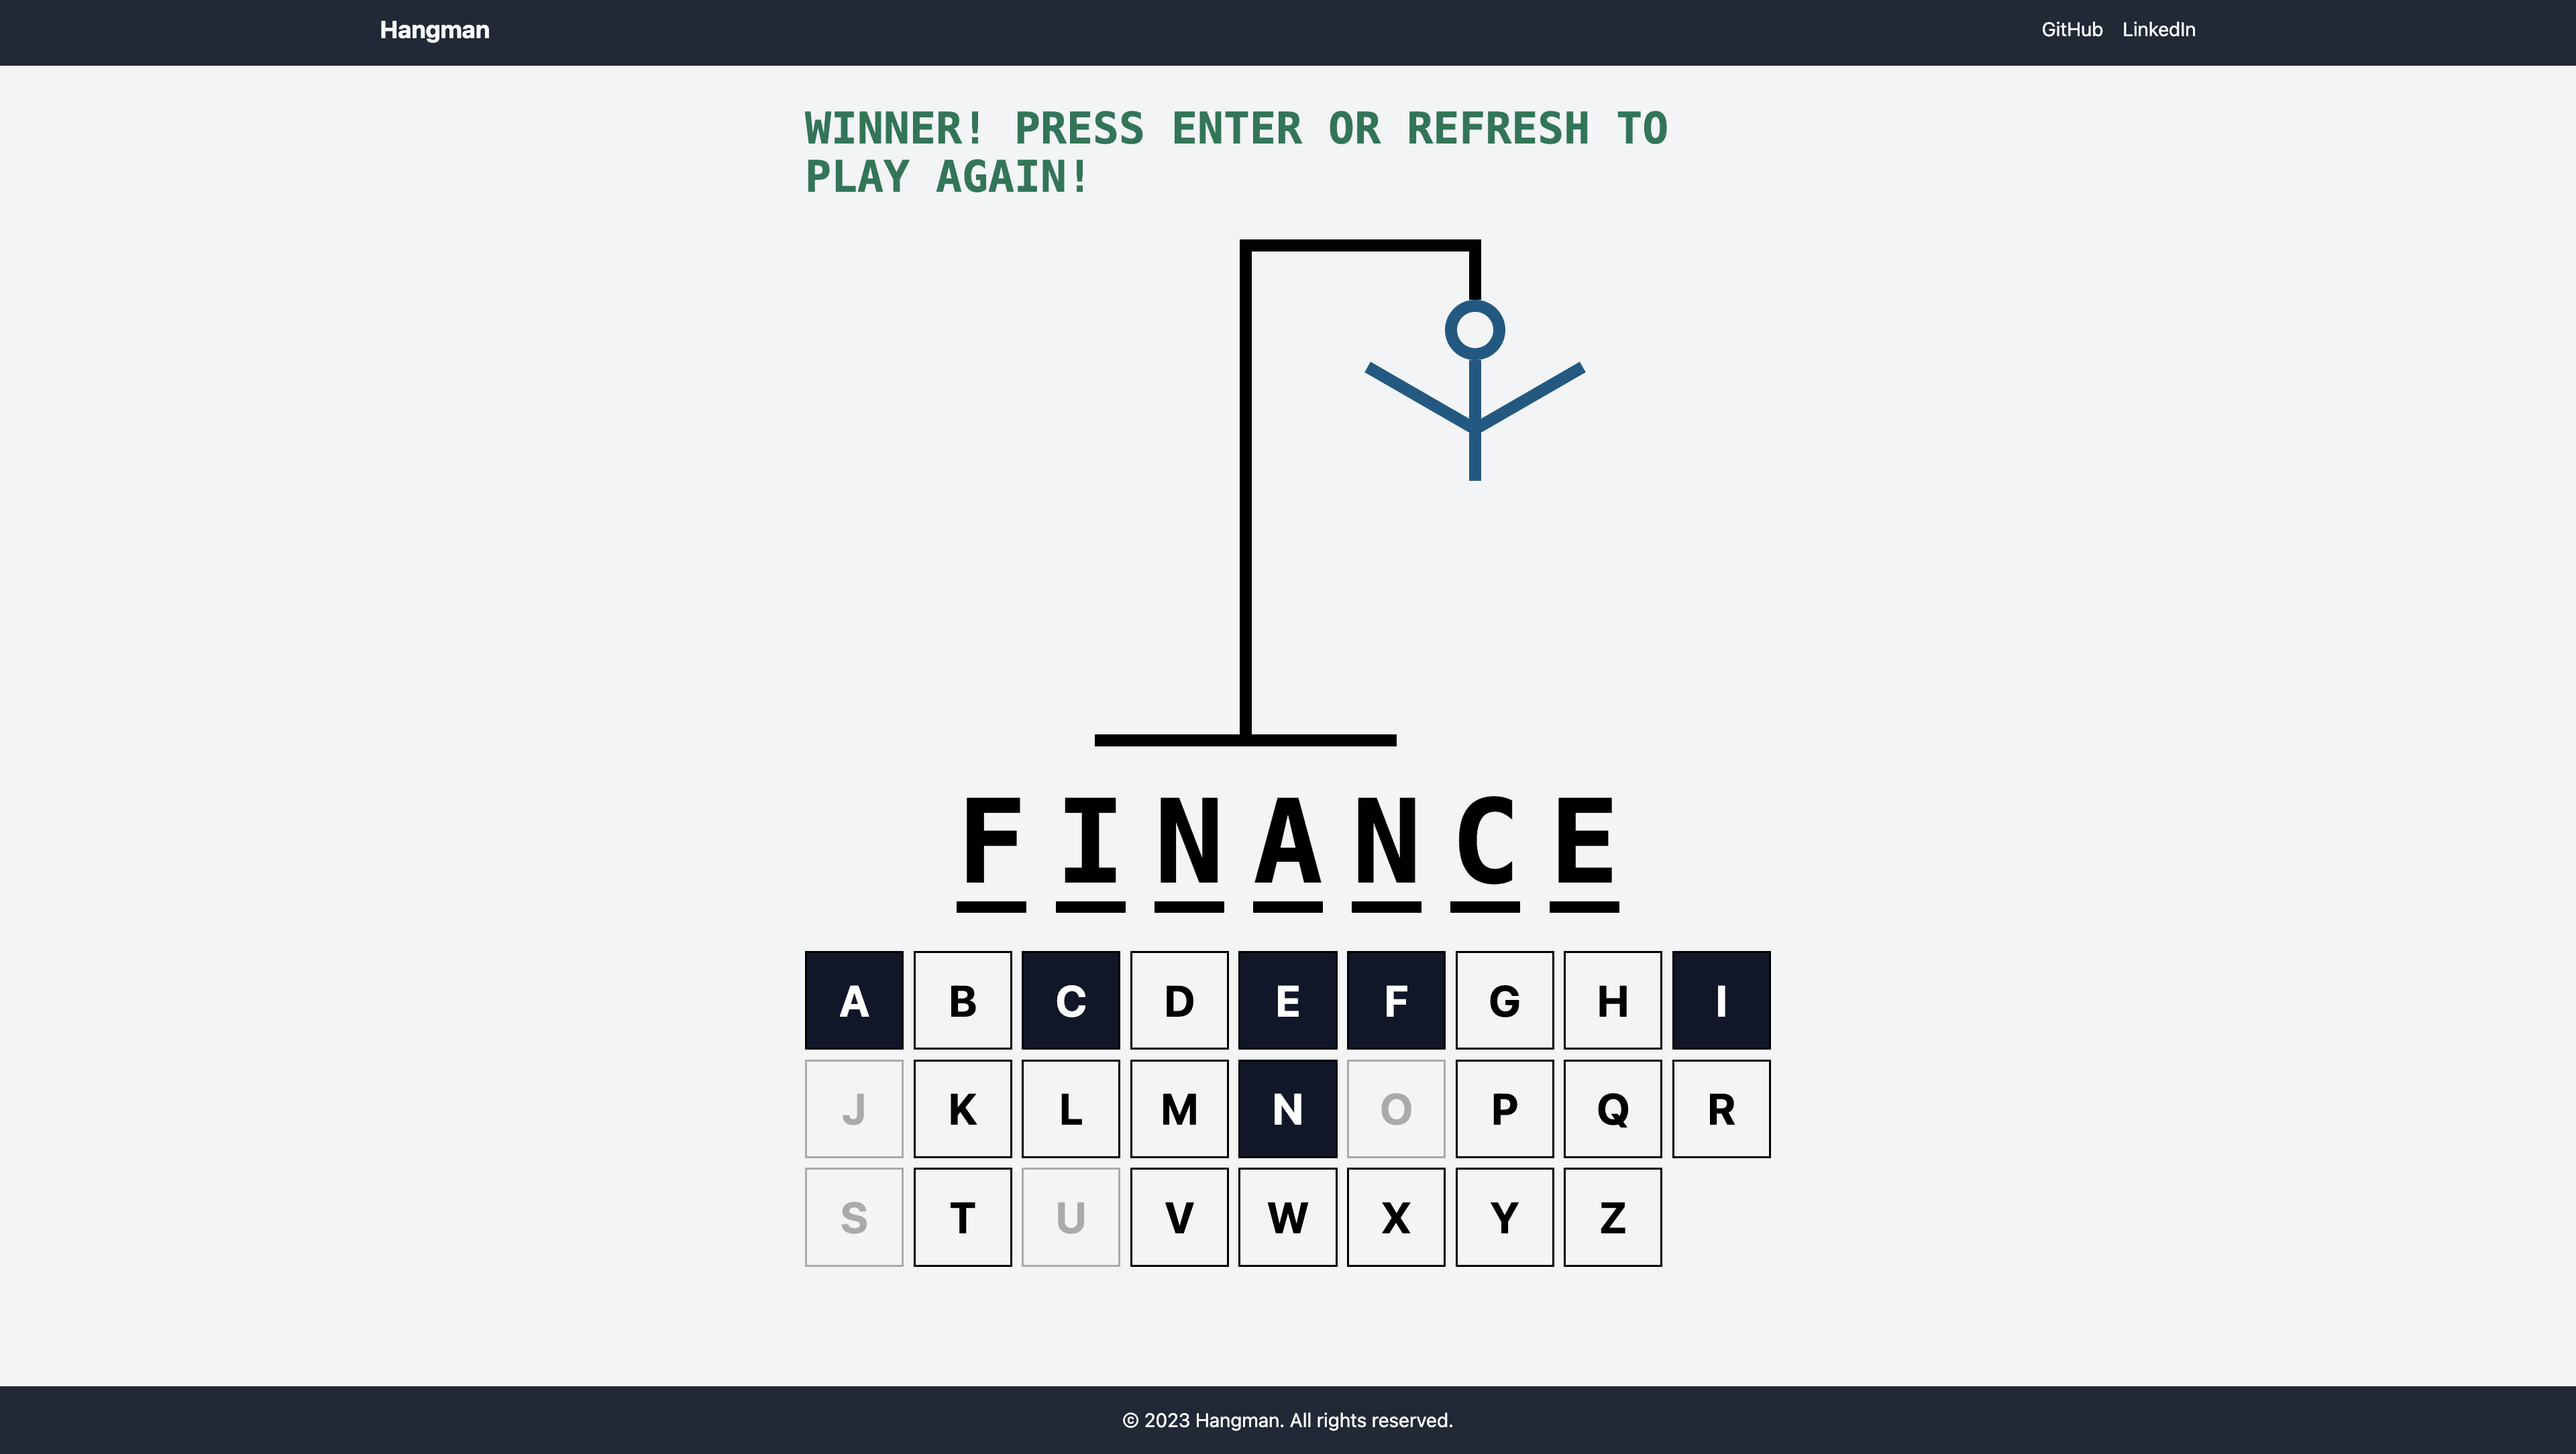
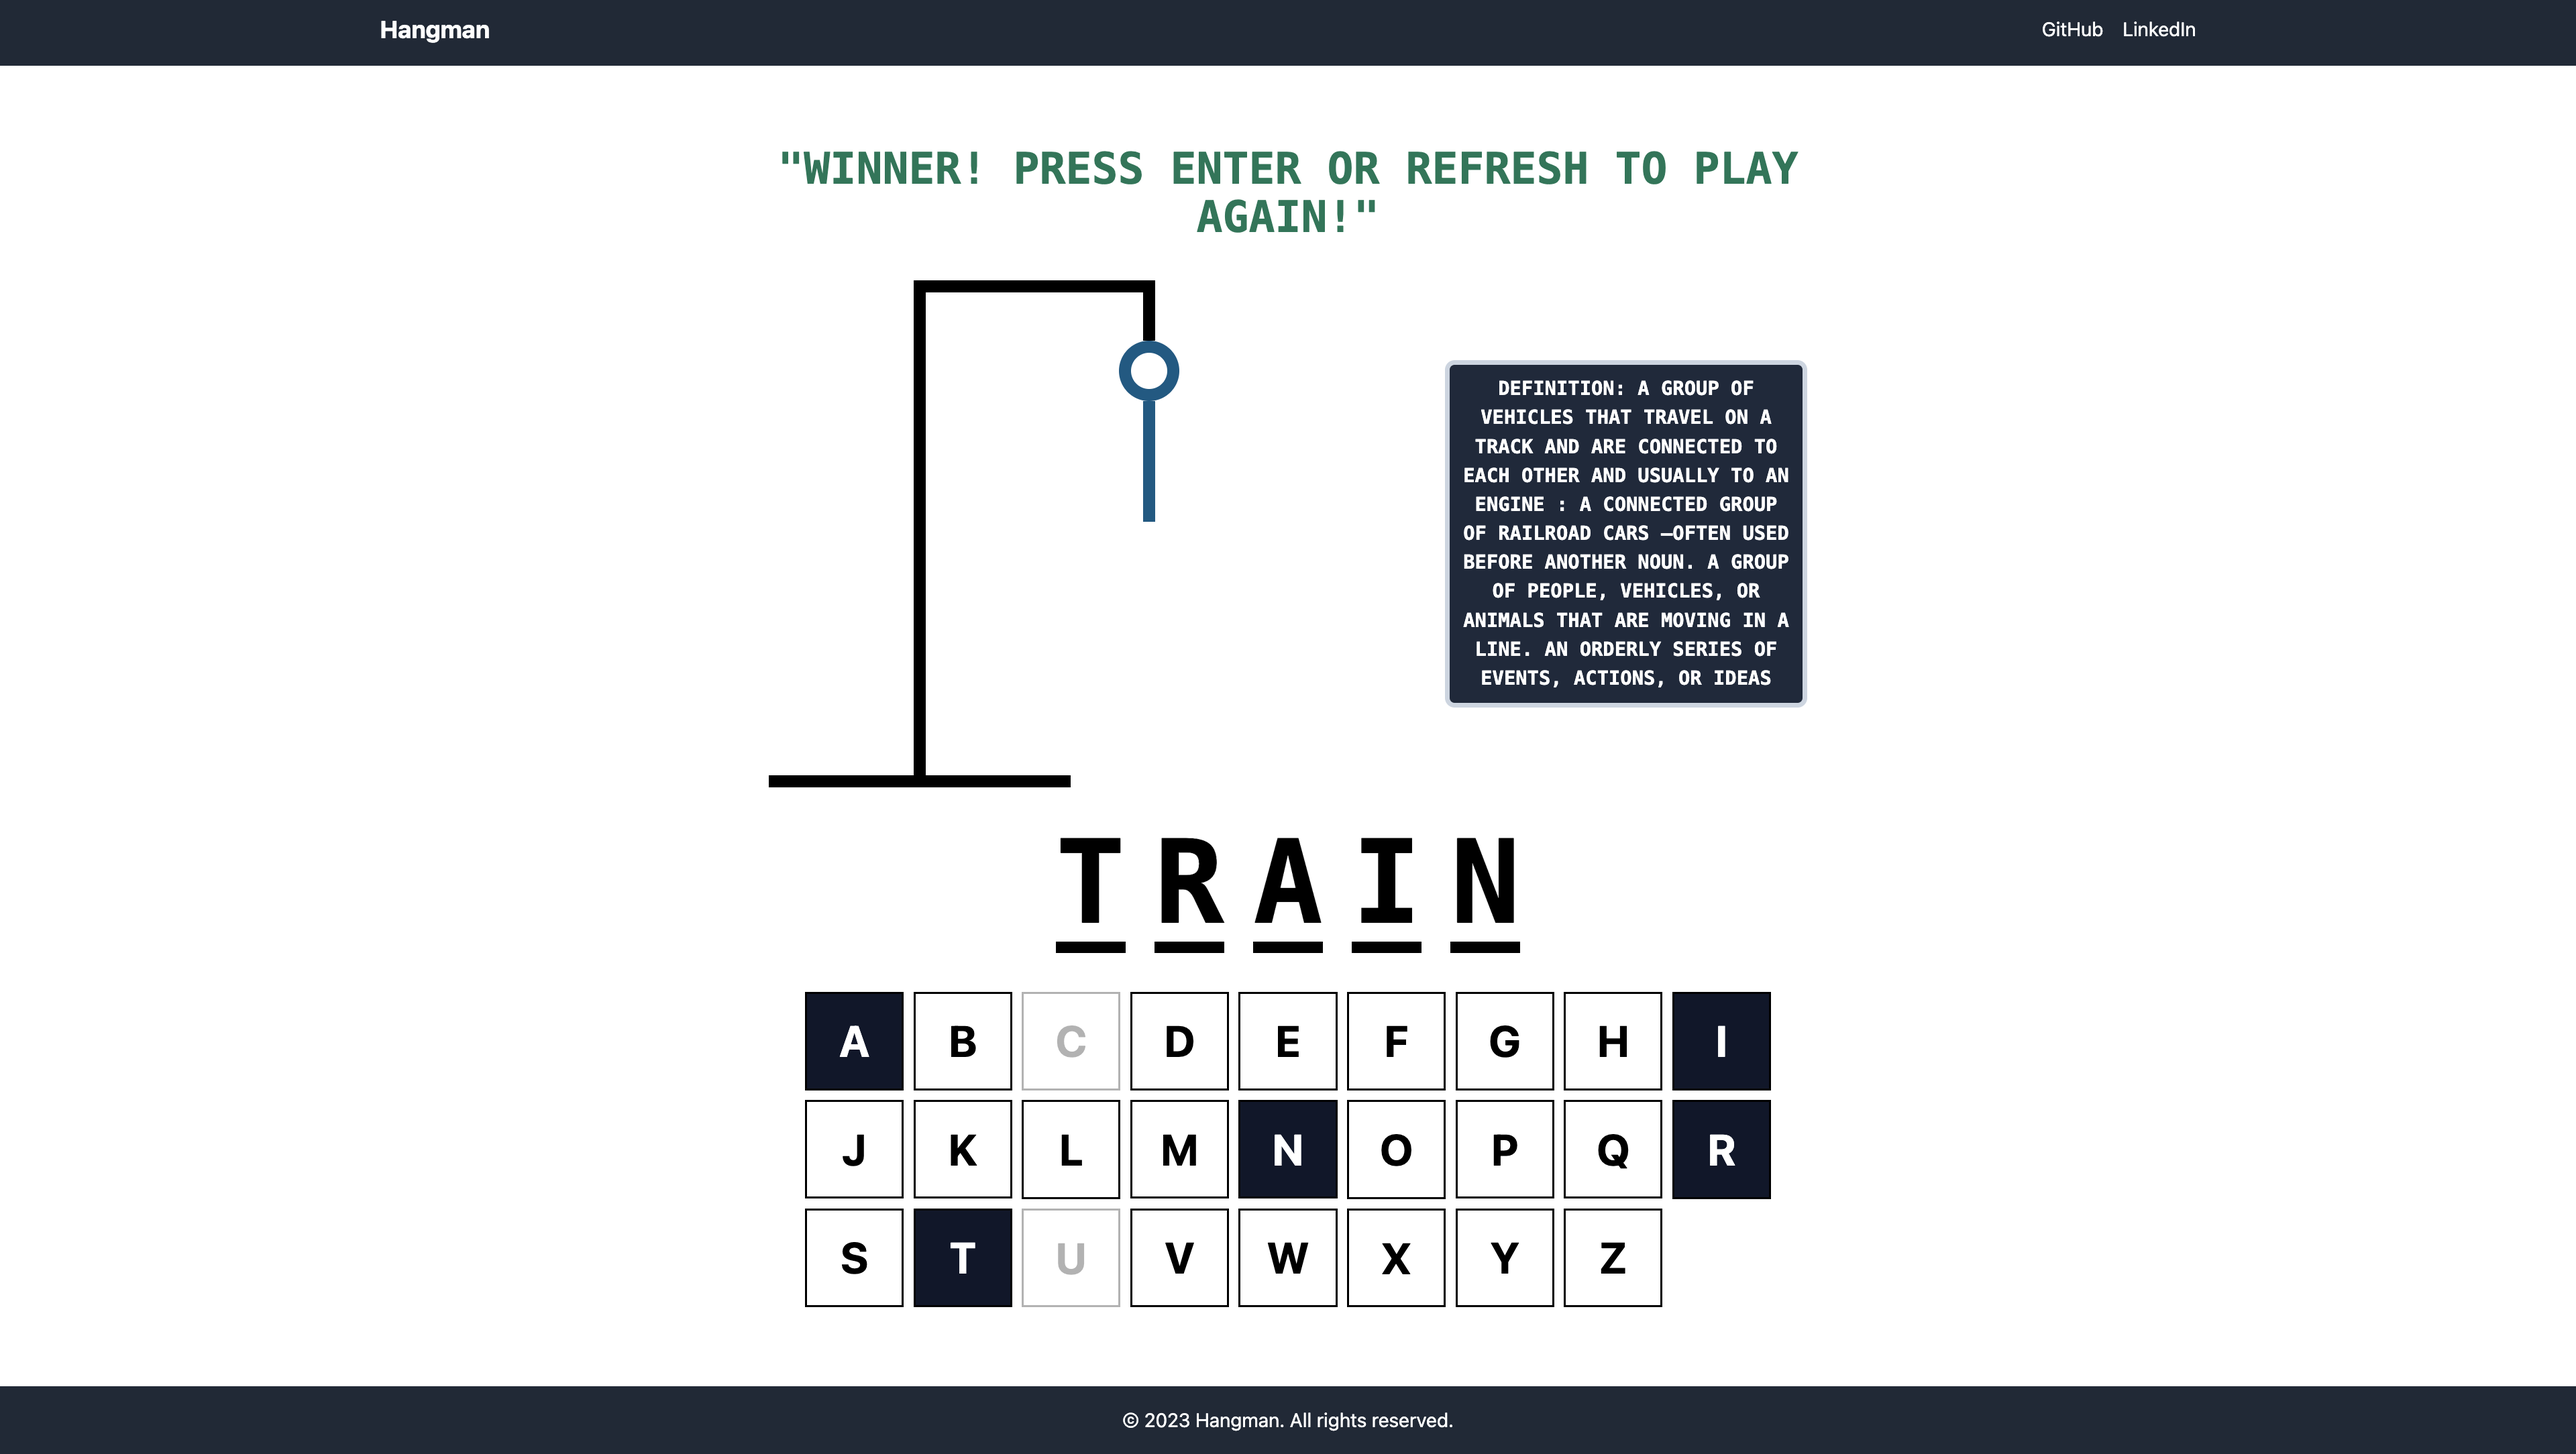
added merriam-webster api for definitions

Changed region(s): [[0.2812, 0.0618, 0.7188, 0.8962]]

diff --git a/src/App.tsx b/src/App.tsx
@@ -4,6 +4,9 @@ import "./index.css";
 import HangmanDrawing from "./HangmanDrawing";
 import HangmanWord from "./HangmanWord";
 import Keyboard from "./Keyboard";
+import Header from "./Header";
+
+const DEVELOPER_KEY = "YOUR_DEVELOPER_KEY";
 
 function getWord() {
   return wordList[Math.floor(Math.random() * wordList.length)];
@@ -12,6 +15,9 @@ function getWord() {
 function App() {
   const [wordToGuess, setWordToGuess] = useState(getWord);
   const [guessedLetters, setGuessedLetters] = useState<string[]>([]);
+  const [definition, setDefinition] = useState("");
+  const [showHint, setShowHint] = useState(false);
+
   const incorrectLetters = guessedLetters.filter(
     (letter) => !wordToGuess.includes(letter)
   );
@@ -55,6 +61,7 @@ function App() {
       e.preventDefault;
       setGuessedLetters([]);
       setWordToGuess(getWord());
+      setShowHint(false);
     };
 
     document.addEventListener("keypress", handler);
@@ -64,74 +71,68 @@ function App() {
     };
   }, []);
 
+  useEffect(() => {
+    fetch(
+      `https://dictionaryapi.com/api/v3/references/learners/json/${wordToGuess}?key=${DEVELOPER_KEY}`
+    )
+      .then((response) => response.json())
+      .then((data) => {
+        setDefinition(data[0].shortdef.join(". "));
+      })
+      .catch((err) => {
+        console.log(err.message);
+      });
+  }, [wordToGuess]);
+
   return (
     <div className="flex flex-col h-screen">
-      <nav className="bg-gray-800 text-white py-4">
-        <div className="container mx-auto px-4 flex justify-between items-center">
-          <a href="#" className="text-xl font-bold">
-            Hangman
-          </a>
-          <button className="md:hidden focus:outline-none">
-            <svg viewBox="0 0 20 20" fill="currentColor" className="h-6 w-6">
-              <path
-                fill-rule="evenodd"
-                d="M3 4a1 1 0 011-1h12a1 1 0 110 2H4a1 1 0 01-1-1zM3 9a1 1 0 011-1h12a1 1 0 110 2H4a1 1 0 01-1-1zM9 14a1 1 0 110-2h8a1 1 0 110 2h-8z"
-                clip-rule="evenodd"
-              />
-            </svg>
-          </button>
-          <div className="hidden md:block">
-            <ul className="flex space-x-4">
-              <li>
-                <a
-                  href="https://github.com/paradimes"
-                  className="hover:text-gray-200"
-                >
-                  GitHub
-                </a>
-              </li>
-              <li>
-                <a
-                  href="https://www.linkedin.com/in/anas-mohmand-2202b8172/"
-                  className="hover:text-gray-200"
-                >
-                  LinkedIn
-                </a>
-              </li>
-            </ul>
-          </div>
-        </div>
-      </nav>
-      <main className="flex-1 bg-gray-100">
-        <div id="root" className="container mx-auto px-4 py-8">
-          <div className="max-w-[800px] flex flex-col gap-8 my-0 mx-auto items-center">
-            <div className="gap-[0.25em] text-4xl font-bold uppercase font-mono">
+      <Header />
+      <main className="h-screen flex justify-center items-center">
+        <div className="max-w-[1000px] flex flex-col items-center justify-center px-4 py-8 gap-8 my-0 mx-auto container">
+          <div className="gap-[0.25em] text-4xl font-bold uppercase font-mono text-center">
+            {isLoser && (
               <p className="text-red-500">
-                {isLoser && "Nice try! Press enter or refresh to try again!"}
+                Nice try! Press enter or refresh to try again!
               </p>
+            )}
+            {isWinner && (
               <p className="text-emerald-700">
-                {isWinner && "Winner! Press enter or refresh to play again!"}
+                "Winner! Press enter or refresh to play again!"
               </p>
-            </div>
+            )}
+          </div>
+          <div className="flex gap-60 items-center ">
             <HangmanDrawing numberOfGuesses={incorrectLetters.length} />
+            <div
+              className=" text-md font-bold uppercase font-mono flex w-[300px] h-fit-content border-4 justify-center items-center border-slate-300 bg-slate-800 text-white p-2 rounded-lg cursor-pointer "
+              onClick={() => setShowHint(!showHint)}
+            >
+              {isWinner || isLoser || showHint ? (
+                <p className="text-center">Definition: {definition}</p>
+              ) : (
+                <p>Hint</p>
+              )}
+            </div>
+          </div>
+          <div className="">
             <HangmanWord
               reveal={isLoser}
               guessedLetters={guessedLetters}
               wordToGuess={wordToGuess}
             />
-            <div className="self-stretch">
-              <Keyboard
-                disabled={isWinner || isLoser}
-                activeLetters={guessedLetters.filter((letter) =>
-                  wordToGuess.includes(letter)
-                )}
-                inactiveLetters={incorrectLetters}
-                addGuessedLetter={addGuessedLetter}
-              />
-            </div>
+          </div>
+          <div className="max-w-[800px] flex-auto w-full">
+            <Keyboard
+              disabled={isWinner || isLoser}
+              activeLetters={guessedLetters.filter((letter) =>
+                wordToGuess.includes(letter)
+              )}
+              inactiveLetters={incorrectLetters}
+              addGuessedLetter={addGuessedLetter}
+            />
           </div>
         </div>
-      </main>
+      </main>{" "}
       <footer className="bg-gray-800 text-white py-4">
         <div className="container mx-auto px-4">
           <p className="text-center">

diff --git a/src/Header.tsx b/src/Header.tsx
@@ -1,0 +1,42 @@
+import React from "react";
+
+export default function Header() {
+  return (
+    <nav className="bg-gray-800 text-white py-4">
+      <div className="container mx-auto px-4 flex justify-between items-center">
+        <a href="#" className="text-xl font-bold">
+          Hangman
+        </a>
+        <button className="md:hidden focus:outline-none">
+          <svg viewBox="0 0 20 20" fill="currentColor" className="h-6 w-6">
+            <path
+              fillRule="evenodd"
+              d="M3 4a1 1 0 011-1h12a1 1 0 110 2H4a1 1 0 01-1-1zM3 9a1 1 0 011-1h12a1 1 0 110 2H4a1 1 0 01-1-1zM9 14a1 1 0 110-2h8a1 1 0 110 2h-8z"
+              clipRule="evenodd"
+            />
+          </svg>
+        </button>
+        <div className="hidden md:block">
+          <ul className="flex space-x-4">
+            <li>
+              <a
+                href="https://github.com/paradimes"
+                className="hover:text-gray-200"
+              >
+                GitHub
+              </a>
+            </li>
+            <li>
+              <a
+                href="https://www.linkedin.com/in/anas-mohmand-2202b8172/"
+                className="hover:text-gray-200"
+              >
+                LinkedIn
+              </a>
+            </li>
+          </ul>
+        </div>
+      </div>
+    </nav>
+  );
+}

diff --git a/README.md b/README.md
@@ -4,14 +4,20 @@ a game in which the player tries to guess the letters of a word, and failed atte
 
 built with vite + react + typescript. 
 
-instructions to get up and running: 
+installation instructions to get up and running: 
 1) clone this repository
 2) in your terminal, cd to the root directory of the project and run npm install, then npm run dev
 
+Note: Using Merriam Webster's Learner's Dictionary API for definitions (https://dictionaryapi.com/products/api-learners-dictionary). 
+Please follow the steps at https://dictionaryapi.com/ to get setup with an API key. Then, on App.tsx, update DEVELOPER_KEY to your key. 
+
 # Screenshots
 
-![Winner](./images/winner.png)
-![Try Again](./images/tryAgain.png)
-![Baseline](./images/baseline.png)
+![Winner](./images/Winner.png)
+![Try Again](./images/Loser.png)
+![Default](./images/Default.png)
+![Show Hint](./images/showHint.png)
+
+
 
 
